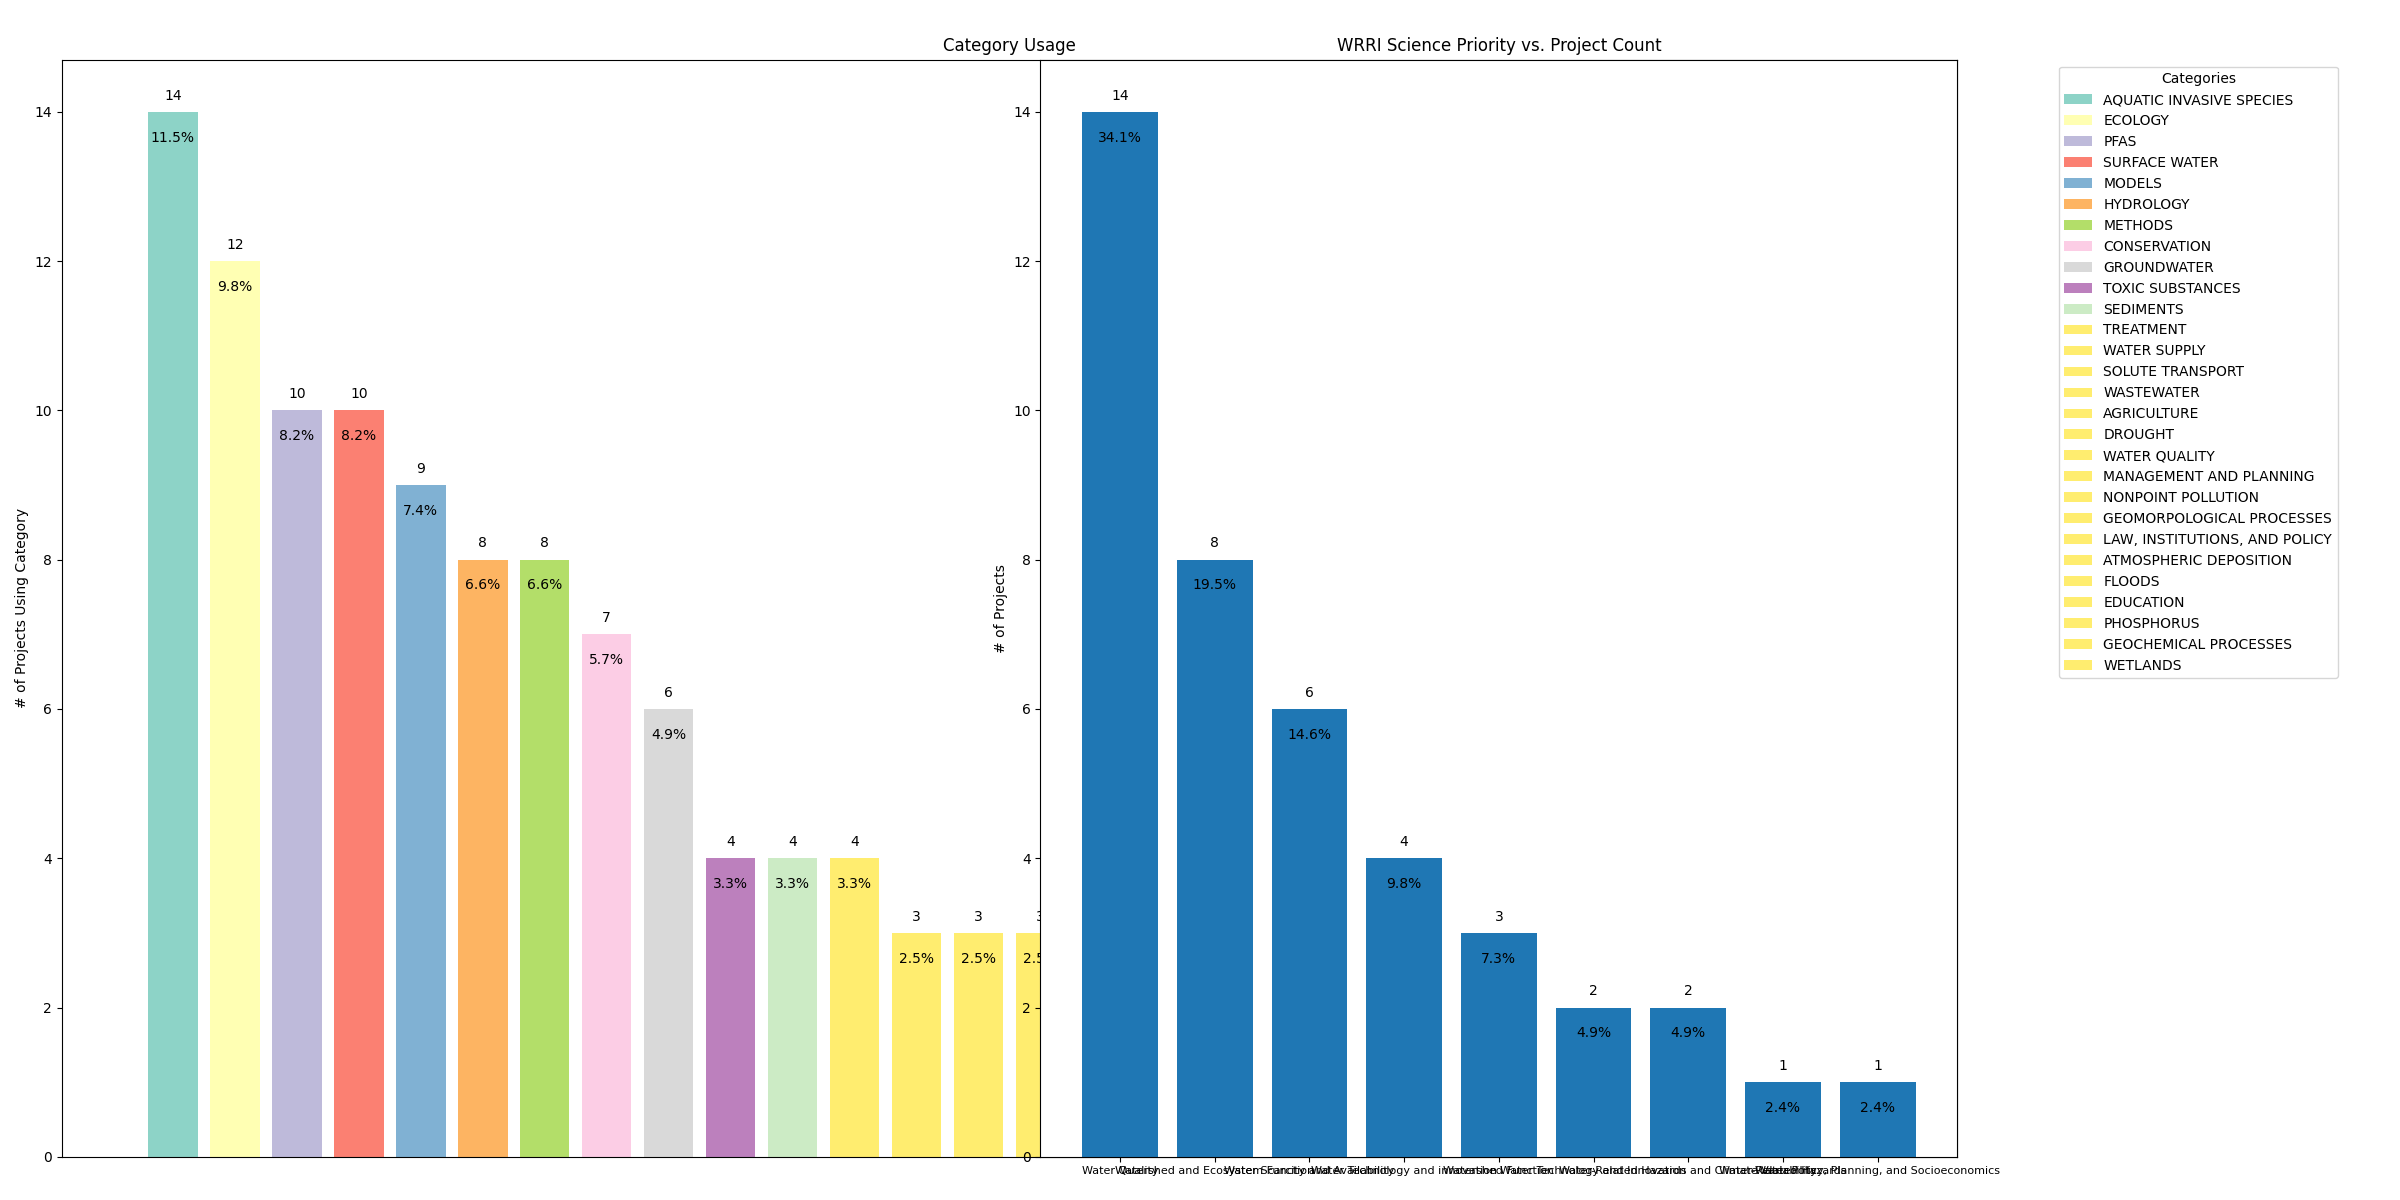
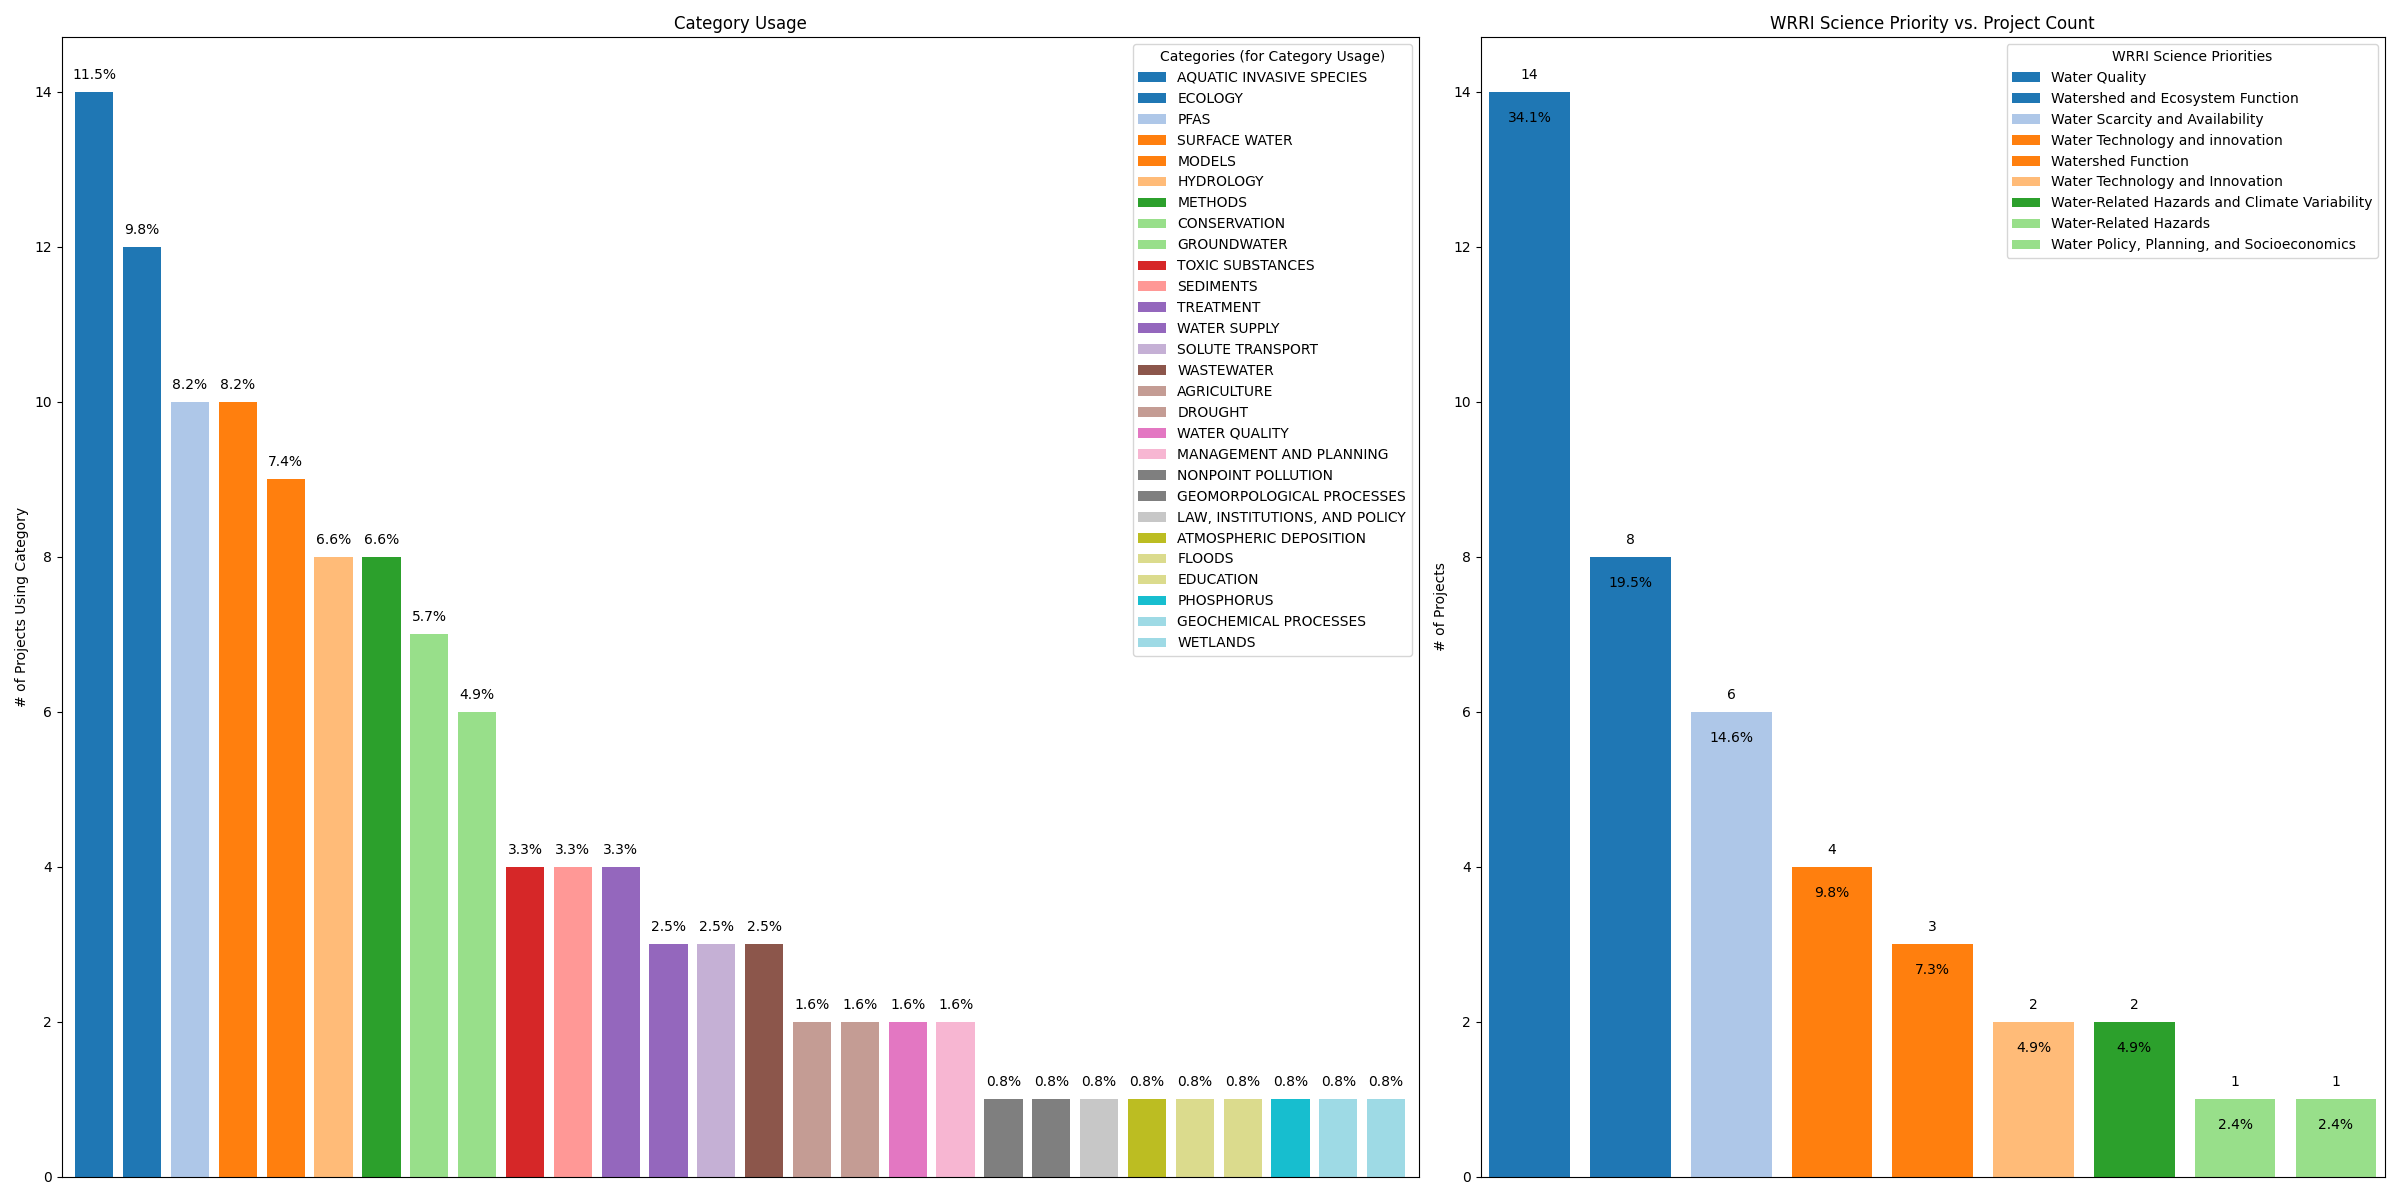
cleaned up most visualizations

diff --git a/dataviz.py b/dataviz.py
@@ -1,5 +1,7 @@
 import pandas as pd
 import matplotlib.pyplot as plt
+import matplotlib.gridspec as gridspec
+import matplotlib.cm as cm
 import numpy as np
 
 def clean_currency(x):
@@ -72,6 +74,7 @@ cat_data = pd.DataFrame({
 funding_fig = plt.figure(figsize=(12, 8))
 
 # Subplot 1: Funding Type vs. Project Count
+# sort by project count descending
 # y label: # of Projects
 # y tick marks go from 0 to 25 in increments of 5
 # put number on top of each bar
@@ -86,12 +89,13 @@ for i, (category, count) in enumerate(funding_type_counts.items()):
   ax1.text(i, count + 0.125, str(count), ha='center', va='bottom')
 
 # Subplot 2: Funding Type vs. Total Funding Amount
+# sort by total funding amount descending
 # y label: Total Funding Amount
 # put number on top of each bar
 # y axis formatted as currency in units of 1.XM
 # y tick marks go from 0 to 3,000,000 in increments of 500,000
 ax2 = funding_fig.add_subplot(2, 2, 2)
-funding_amounts = proj_data.groupby('Funding Type')['Funding Amount'].sum()
+funding_amounts = proj_data.groupby('Funding Type')['Funding Amount'].sum().sort_values(ascending=False)
 ax2.bar(funding_amounts.index, funding_amounts.values)
 ax2.set_title('Funding Type vs. Total Funding Amount')
 ax2.tick_params(axis='x', labelsize=8)
@@ -102,12 +106,13 @@ for i, (category, amount) in enumerate(funding_amounts.items()):
   ax2.text(i, amount + 25000, f'${amount/1e6:.1f}M', ha='center', va='bottom')
 
 # Subplot 3: Funding Type vs. Average Funding Per Project
+# sort by average funding amount descending
 # y label: Average Funding Per Project
 # put number on top of each bar
 # if number is > 235000, put number just below top of bar instead and make it white
 # y axis formatted as currency in units of 1.XK
 ax3 = funding_fig.add_subplot(2, 2, 3)
-funding_averages = proj_data.groupby('Funding Type')['Funding Amount'].mean()
+funding_averages = proj_data.groupby('Funding Type')['Funding Amount'].mean().sort_values(ascending=False)
 ax3.bar(funding_averages.index, funding_averages.values)
 ax3.set_title('Funding Type vs. Average Funding Per Project')
 ax3.tick_params(axis='x', labelsize=8)
@@ -164,7 +169,7 @@ for i, v in enumerate(stu_data['Student Count']):
 # 2. total number of students supported (sum of all 'Student Count' values)
 total_wrra_students = stu_data[stu_data['Student Type'] != 'Non-Federal']['Student Count'].sum()
 total_students = stu_data['Student Count'].sum()
-info_text = (f"Total Students Supported by WRRA $: {total_wrra_students}\n"
+info_text = (f"Total Students Supported by WRRA Funding: {total_wrra_students}\n"
              f"Total Students Supported: {total_students}")
 ax2 = student_fig.add_subplot(1, 2, 2)
 ax2.axis('off')
@@ -180,31 +185,27 @@ student_fig.savefig('saved_figs/student_visualizations.png')
 # Subplots (from proj_data):
 # 1. bar chart, grouped by 'WRRI Science Priority', count of projects in each priority
 # Figure arrangement:
-# 1 row, 2 columns (first subplot on left, second subplot on right)
-# all subplots should use legends instead of direct labels
+# 1 row, 3 columns (first subplot on left, nothing in middle, second subplot on right)
 
 cat_bar_fig = plt.figure(figsize=(24, 12))
+gs = cat_bar_fig.add_gridspec(1, 2, width_ratios=[3, 2])
 
 # Subplot 1: Category vs. Count
 # title: Category Usage
 # y label: # of Projects Using Category
-# x labels: none (use legend instead)
-# legend: each category
-# put number on top of each bar
-# put percentages just below top of bar
-ax1 = cat_bar_fig.add_subplot(1, 1, 1)
-colors = plt.cm.Set3(range(len(cat_data)))
-bars = ax1.bar(cat_data['Category'], cat_data['Count'], color=colors)
-ax1.set_xticks([])
+# each category represented by a different color
+# put percentage on top of each bar
+ax1 = cat_bar_fig.add_subplot(gs[0, 0])
+colors1 = plt.get_cmap('tab20', len(cat_data))(range(len(cat_data)))
+bars1 = ax1.bar(cat_data['Category'], cat_data['Count'], color=colors1)
 ax1.set_title('Category Usage')
 ax1.set_ylabel('# of Projects Using Category')
-ax1.legend(bars, cat_data['Category'], title='Categories', bbox_to_anchor=(1.05, 1), loc='upper left')
-
+ax1.set_xticks([])
+ax1.margins(x=0.01)
+ax1.legend(bars1, cat_data['Category'], title='Categories (for Category Usage)', loc='upper right')
 for i, v in enumerate(cat_data['Count']):
-  ax1.text(i, v + 0.125, str(v), ha='center', va='bottom')
   percentage = (v / cat_data['Count'].sum()) * 100
-  ax1.text(i, v - 0.25, f'{percentage:.1f}%', ha='center', va='top')
-
+  ax1.text(i, v + 0.125, f'{percentage:.1f}%', ha='center', va='bottom')
 
 # Subplot 2: WRRI Science Priority vs. Project Count
 # title: WRRI Science Priority vs. Project Count
@@ -212,11 +213,14 @@ for i, v in enumerate(cat_data['Count']):
 # put number on top of each bar
 # put percentages just below top of bar
 wrri_counts = proj_data['WRRI Science Priority'].value_counts()
-ax2 = cat_bar_fig.add_subplot(1, 2, 2)
-ax2.bar(wrri_counts.index, wrri_counts.values)
+ax2 = cat_bar_fig.add_subplot(gs[0, 1])
+colors2 = plt.get_cmap('tab20', len(cat_data))(range(len(cat_data)))
+bars2 = ax2.bar(wrri_counts.index, wrri_counts.values, color=colors2)
 ax2.set_title('WRRI Science Priority vs. Project Count')
-ax2.tick_params(axis='x', labelsize=8)
 ax2.set_ylabel('# of Projects')
+ax2.set_xticks([])
+ax2.margins(x=0.01)
+ax2.legend(bars2, wrri_counts.index, title='WRRI Science Priorities', loc='upper right')
 for i, v in enumerate(wrri_counts.values):
   ax2.text(i, v + 0.125, str(v), ha='center', va='bottom')
   percentage = (v / wrri_counts.sum()) * 100
@@ -237,25 +241,25 @@ cat_bar_fig.savefig('saved_figs/category_bar_visualizations.png')
 cat_pie_fig = plt.figure(figsize=(12, 10))
 
 # Subplot 3: Pie chart of WRRI Science Priority distribution
-ax1 = cat_pie_fig.add_subplot(2, 3, 3)
+ax1 = cat_pie_fig.add_subplot(2, 2, 1)
 ax1.pie(wrri_counts.values, labels=wrri_counts.index, autopct='%1.1f%%')
 ax1.set_title('Distribution of WRRI Science Priorities')
 
 # Subplot 4: Pie chart of Focus Category 1 distribution
 focus_cat1_counts = proj_data['Focus Category 1'].value_counts()
-ax2 = cat_pie_fig.add_subplot(2, 3, 4)
+ax2 = cat_pie_fig.add_subplot(2, 2, 2)
 ax2.pie(focus_cat1_counts.values, labels=focus_cat1_counts.index, autopct='%1.1f%%')
 ax2.set_title('Distribution of Focus Category 1')
 
 # Subplot 5: Pie chart of Focus Category 2 distribution
 focus_cat2_counts = proj_data['Focus Category 2'].value_counts()
-ax3 = cat_pie_fig.add_subplot(2, 3, 5)
+ax3 = cat_pie_fig.add_subplot(2, 2, 3)
 ax3.pie(focus_cat2_counts.values, labels=focus_cat2_counts.index, autopct='%1.1f%%')
 ax3.set_title('Distribution of Focus Category 2')
 
 # Subplot 6: Pie chart of Focus Category 3 distribution
 focus_cat3_counts = proj_data['Focus Category 3'].value_counts()
-ax4 = cat_pie_fig.add_subplot(2, 3, 6)
+ax4 = cat_pie_fig.add_subplot(2, 2, 4)
 ax4.pie(focus_cat3_counts.values, labels=focus_cat3_counts.index, autopct='%1.1f%%')
 ax4.set_title('Distribution of Focus Category 3')
 

diff --git a/unused.py b/unused.py
@@ -77,3 +77,60 @@ for i, v in enumerate(fund_grps['Funding Amount']):
   ax3.text(i, v + max(fund_grps['Funding Amount']) * 0.01, "${:,.0f}".format(v), ha='center', va='bottom')
 
 plt.show()
+
+
+cat_data = pd.read_csv('data/category_data.csv')
+
+# ----- CATEGORY VISUALIZATIONS PT. 1 -----
+# Subplots (from cat_data):
+# 1. bar chart, 'Category' vs. 'Count'
+# Subplots (from proj_data):
+# 1. bar chart, grouped by 'WRRI Science Priority', count of projects in each priority
+# Figure arrangement:
+# 1 row, 3 columns (first subplot on left, first subplot legend in middle, second subplot on right)
+# all subplots should use legends instead of direct labels
+
+cat_bar_fig = plt.figure(figsize=(24, 12))
+
+# Subplot 1: Category vs. Count
+# title: Category Usage
+# y label: # of Projects Using Category
+# x labels: none (use legend instead)
+# legend: each category
+# put number on top of each bar
+# put percentages just below top of bar
+ax1 = cat_bar_fig.add_subplot(1, 1, 1)
+colors1 = plt.cm.Set3(range(len(cat_data)))
+bars1 = ax1.bar(cat_data['Category'], cat_data['Count'], color=colors1)
+ax1.set_xticks([])
+ax1.set_title('Category Usage')
+ax1.set_ylabel('# of Projects Using Category')
+ax1.legend(bars1, cat_data['Category'], title='Categories', loc='upper right')
+for i, v in enumerate(cat_data['Count']):
+  ax1.text(i, v + 0.125, str(v), ha='center', va='bottom')
+  percentage = (v / cat_data['Count'].sum()) * 100
+  ax1.text(i, v - 0.25, f'{percentage:.1f}%', ha='center', va='top')
+
+
+# Subplot 2: WRRI Science Priority vs. Project Count
+# title: WRRI Science Priority vs. Project Count
+# y label: # of Projects
+# x labels: none (use legend instead)
+# legend: each category
+# put number on top of each bar
+# put percentages just below top of bar
+wrri_counts = proj_data['WRRI Science Priority'].value_counts()
+ax2 = cat_bar_fig.add_subplot(1, 3, 2)
+colors2 = plt.cm.Pastel1(range(len(wrri_counts)))
+bars2 = ax2.bar(wrri_counts.index, wrri_counts.values, color=colors2)
+ax2.set_title('WRRI Science Priority vs. Project Count')
+ax2.set_xticks([])
+ax2.set_ylabel('# of Projects')
+ax2.legend(bars2, wrri_counts.index, title='WRRI Science Priorities', loc='upper right')
+for i, v in enumerate(wrri_counts.values):
+  ax2.text(i, v + 0.125, str(v), ha='center', va='bottom')
+  percentage = (v / wrri_counts.sum()) * 100
+  ax2.text(i, v - 0.25, f'{percentage:.1f}%', ha='center', va='top')
+
+plt.tight_layout()
+cat_bar_fig.savefig('saved_figs/category_bar_visualizations.png')
